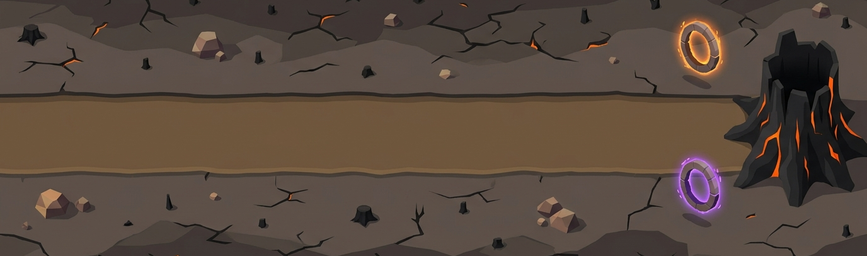
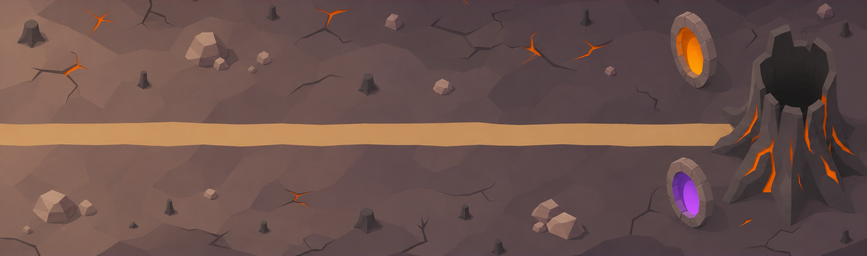
feat(art): 차원문 모험 6단계 지도에 컷페이퍼 아트 적용

diff --git a/.art/PRODUCTION-STATUS.md b/.art/PRODUCTION-STATUS.md
@@ -204,7 +204,7 @@
 | `pve/pve_vine_witch.png` | 클라이언트 PR (이슈 #169) | 192x155 RGBA, 원본 캔버스 유지. `PveVineWitch` 모험 보스, 숲의 마녀. 애니메이션풍 인물이라 화풍 자체가 달랐던 것을 다면체 cut-paper 로 다시 그렸다. v1 한 번에 통과 — 빨간 장발·잎 후드·지팡이 실루엣 유지, `facing.py` 기준 눈 중심이 몸통 중심보다 오른쪽(오른쪽 방향 확인). alignment 7 유지 |
 | `Adventure/gate_adventure_icon.png` | 클라이언트 PR (이슈 #232) | **검수 대기, 자리표시 아트.** 차원문 모험(adventure 3) 아이콘, 새 파일이라 `stone_fortress.png` 는 그대로 두고 `GateAdventure.asset` 의 `iconImage` 만 옮겼다. 256x183 RGBA, `agy` 의 `generate_image` 로 초록(#00FF00) 배경에 그려 key 를 제거했다. v1 반려(룬 글자가 새겨졌고 고리 안쪽에 초록이 비쳐 번졌다), v2 통과(룬 없음, 안쪽을 어두운 보라 원판으로 채움). 내용은 세로 183px 전체를 쓰고 폭은 179px 로 옛 256px 보다 좁다 — 옛 아이콘은 가로로 넓은 성이라 비율이 다르다. 4배 확대에서 어두운·밝은 배경 모두 초록 테두리 없음, 불투명 픽셀의 초록 우세 0개 |
 | `Adventure/gate_adventure_map_stage5.png` | 클라이언트 PR (이슈 #504) | **모험 화면 검수 대기.** 무광 절개면으로 회색 암반을 다시 그리고 불꽃·번개 차원문 다섯 개의 배치를 유지했다. 867×256 RGB, Stage5와 준비 화면 참조 유지. 비교한 가로 단면 6곳에서 길 중심 차이는 최대 2px이고 폭은 기존 79–83px에서 19–21px로 줄었다. |
-| `Adventure/gate_adventure_map_stage6.png` | 클라이언트 PR (이슈 #232) | **검수 대기, 자리표시 아트.** 차원문 모험 6단계(보스) 지도, `Stage6.asset` 의 `backgroundImage` 만 옮겼다. 867x256 RGB 불투명. 위와 같은 방식으로 잘랐다. v1 반려(윤곽선이 있고 줄기가 잘렸다), v2 통과(윤곽선 없음, 오른쪽 끝의 그을린 속 빈 그루터기와 균열의 주황 빛, 길 양옆 차원문 고리 둘) |
+| `Adventure/gate_adventure_map_stage6.png` | 클라이언트 PR (이슈 #506) | **모험 화면 검수 대기.** 5단계 지도와 같은 무광 암반을 적용했다. 길 끝의 속 빈 그루터기와 주황·보라 차원문 두 개를 유지했다. 867×256 RGB와 Stage6의 Sprite 참조를 확인했다. 비교한 가로 단면 6곳에서 길 중심 차이는 최대 2.5px이고 폭은 기존 72–75px에서 21–22px로 줄었다. |
 | `Background/Gate/background.png` | 클라이언트 PR (이슈 #235) | **검수 대기, 자리표시 아트.** 차원문 모험(adventure 3) 전투 배경 theme 의 새 파일(`Background/Fortress/background.png` 와 같은 이름·크기). 1254x1254 RGB 바닥 질감. 그을린 갈라진 땅, 대비를 0.62배로 낮췄고 가장자리를 섞어 이어 붙여도 이음매가 안 보이게 했다. `GateBattleTheme.asset` 이 참조하고 `GateAdventure.asset` 의 `battleTheme` 이 이 asset 을 가리킨다. `agy` 생성, 초록 배경 key 제거. Editor 미검증 |
 | `Background/Gate/tree_1.png` | 클라이언트 PR (이슈 #235) | **검수 대기, 자리표시 아트.** 차원문 모험(adventure 3) 전투 배경 theme 의 새 파일(`Background/Fortress/tree_1.png` 와 같은 이름·크기). 277x242 RGBA, 꺾인 탄 줄기. `GateBattleTheme.asset` 이 참조하고 `GateAdventure.asset` 의 `battleTheme` 이 이 asset 을 가리킨다. `agy` 생성, 초록 배경 key 제거. Editor 미검증 |
 | `Background/Gate/tree_2.png` | 클라이언트 PR (이슈 #235) | **검수 대기, 자리표시 아트.** 차원문 모험(adventure 3) 전투 배경 theme 의 새 파일(`Background/Fortress/tree_2.png` 와 같은 이름·크기). 265x222 RGBA, 가지 둘 달린 탄 줄기. `GateBattleTheme.asset` 이 참조하고 `GateAdventure.asset` 의 `battleTheme` 이 이 asset 을 가리킨다. `agy` 생성, 초록 배경 key 제거. Editor 미검증 |
